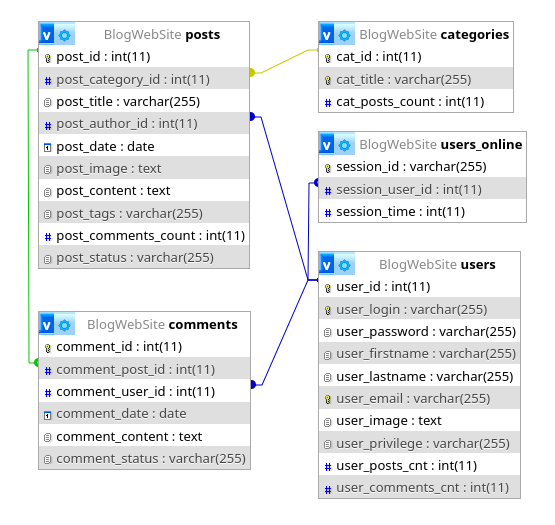
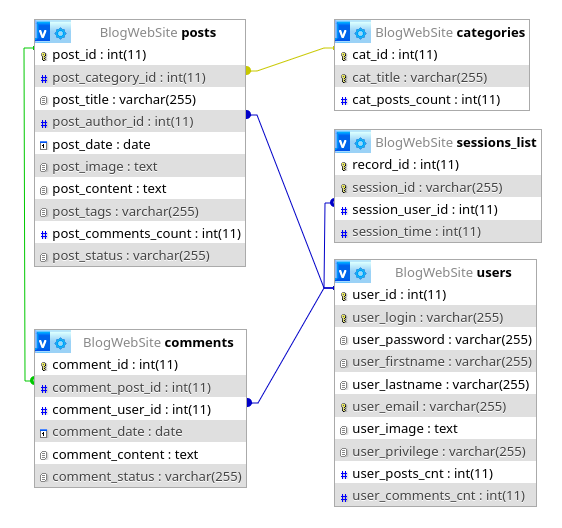
Change sessions table structure

diff --git a/admin/js/admin_script.js b/admin/js/admin_script.js
@@ -59,4 +59,4 @@ function showUsersOnlineCnt() {
 }
 
 showUsersOnlineCnt();
-setInterval(showUsersOnlineCnt, 500); //every 500ms
+setInterval(showUsersOnlineCnt, 1000); //every 1000ms

diff --git a/admin/admin_functions.php b/admin/admin_functions.php
@@ -2398,14 +2398,14 @@ function addSession() {
 
         $session_time = time();
 
-        $query = "SELECT * FROM users_online WHERE session_id = '{$session_id}';";
+        $query = "SELECT * FROM sessions_list WHERE session_id = '{$session_id}';";
         $searchSessionId = mysqli_query($connection, $query);
         validateQuery($searchSessionId);
 
         if (mysqli_num_rows($searchSessionId)) {
-            $query = "UPDATE users_online SET session_user_id = {$session_user_id}, session_time = {$session_time} WHERE session_id = '{$session_id}';";
+            $query = "UPDATE sessions_list SET session_user_id = {$session_user_id}, session_time = {$session_time} WHERE session_id = '{$session_id}';";
         } else {
-            $query = "INSERT INTO users_online(session_id, session_user_id, session_time) VALUES('{$session_id}', {$session_user_id}, {$session_time})";
+            $query = "INSERT INTO sessions_list(session_id, session_user_id, session_time) VALUES('{$session_id}', {$session_user_id}, {$session_time})";
         }
         $updateSession = mysqli_query($connection, $query);
         validateQuery($updateSession);
@@ -2416,10 +2416,10 @@ function addSession() {
 function usersOnlineCnt() {
     global $connection;
 
-    $session_timeout = 30; //after this time user is not online (in seconds)
+    $session_timeout = 300; //after this time user is not online (in seconds)
     $current_time = time();
 
-    $query = "SELECT * FROM users_online WHERE session_time + {$session_timeout} > {$current_time};";
+    $query = "SELECT * FROM sessions_list WHERE session_time + {$session_timeout} > {$current_time};";
     $usersOnlineQuery = mysqli_query($connection, $query);
     validateQuery($usersOnlineQuery);
 

diff --git a/functions.php b/functions.php
@@ -1028,14 +1028,14 @@ function addSession() {
 
         $session_time = time();
 
-        $query = "SELECT * FROM users_online WHERE session_id = '{$session_id}';";
+        $query = "SELECT * FROM sessions_list WHERE session_id = '{$session_id}';";
         $searchSessionId = mysqli_query($connection, $query);
         validateQuery($searchSessionId);
 
         if (mysqli_num_rows($searchSessionId)) {
-            $query = "UPDATE users_online SET session_user_id = {$session_user_id}, session_time = {$session_time} WHERE session_id = '{$session_id}';";
+            $query = "UPDATE sessions_list SET session_user_id = {$session_user_id}, session_time = {$session_time} WHERE session_id = '{$session_id}';";
         } else {
-            $query = "INSERT INTO users_online(session_id, session_user_id, session_time) VALUES('{$session_id}', {$session_user_id}, {$session_time})";
+            $query = "INSERT INTO sessions_list(session_id, session_user_id, session_time) VALUES('{$session_id}', {$session_user_id}, {$session_time})";
         }
         $updateSession = mysqli_query($connection, $query);
         validateQuery($updateSession);
